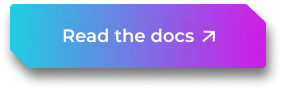
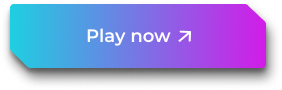
Play now button

Changed region(s): [[0.1986, 0.3111, 0.766, 0.5111], [0.0284, 0.5556, 0.9645, 0.8]]

diff --git a/src/components/Top.jsx b/src/components/Top.jsx
@@ -44,7 +44,7 @@ export const Top = ({ notion, discord, twitter, medium, github }) => {
                         Create truly decentralized, open-source, community-driven games interoperable with any NFT collection on Solana
                     </p>
                     <button>
-                        <a href="https://docs.solcery.xyz" target="_blank" rel="noreferrer">
+                        <a href="https://play.solcery.xyz" target="_blank" rel="noreferrer">
                             <img src={header_button} alt="" />
                         </a>
                     </button>
